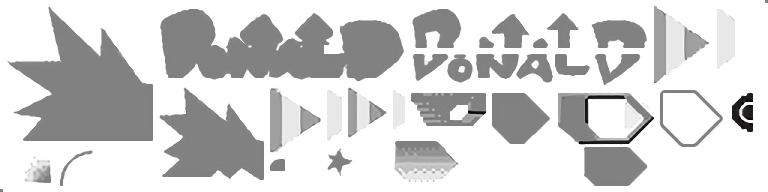
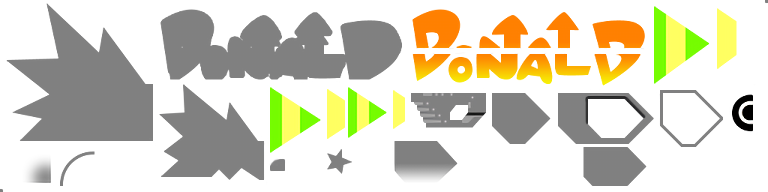
1.4.0 - All D-Links completely restored.
(Except Vanitas, which is a opacity dilemma.)

diff --git a/readme.md b/readme.md
@@ -1,5 +1,7 @@
 # Birth by Sleep HD ReMix
-A Texture Pack for Kingdom Hearts Birth by Sleep Final Mix, for use in the PPSSPP Emulator.
+<br>A Texture Pack for Kingdom Hearts Birth by Sleep Final Mix, for use in the PPSSPP Emulator.
+
+<br><b><i>Contact on the bottom.</i></b>
 
 <b>Warning:</b>
 This Texture Pack was made for the <b>Japanese/English patched Kingdom Hearts Birth by Sleep FINAL MIX.</b>
@@ -14,6 +16,8 @@ This Texture Pack was made for the <b>Japanese/English patched Kingdom Hearts Bi
 # Latest Version: 1.4.0
 
 Original Forum Thread: https://forums.ppsspp.org/showthread.php?tid=24126
+
+Album: https://imgur.com/a/0YzyF1t
 
 # Download Links:
 
